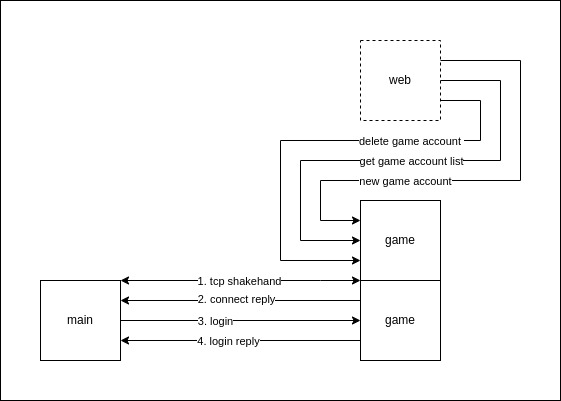
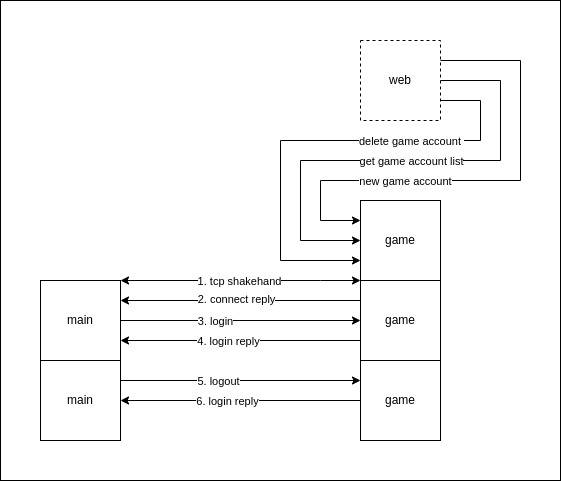
docs: update account

diff --git a/docs/account.md b/docs/account.md
@@ -111,9 +111,9 @@ pack(1)
 | ----- | ------- | ----------------------------------- |
 | 0     | 0xC1    | c1c2 frame flag                     |
 | 1     | 0x0F    | c1c2 frame size                     |
-| 2     | 0xF1    | c1c2 frame code 0xF406 BE high byte |
-| 3     | 0x00    | c1c2 frame code 0xF406 BE low byte  |
-| 4     | 0x01    | connect result                      |
+| 2     | 0xF1    | c1c2 frame code 0xF100 BE high byte |
+| 3     | 0x00    | c1c2 frame code 0xF100 BE low byte  |
+| 4     | 0x01    | connect result: 0=failed 1=success  |
 | 5     | 0x2E    | player index 0x2E7C BE high byte    |
 | 6     | 0x7C    | player index 0x2E7C BE low byte     |
 | 7~14  | byte[8] | client version                      |
@@ -129,9 +129,9 @@ pack(1)
 | ----- | ------- | ----------------------------------- |
 | 0     | 0xC1    | c1c2 frame flag                     |
 | 1     | 0x05    | c1c2 frame size                     |
-| 2     | 0xF1    | c1c2 frame code 0xF406 BE high byte |
-| 3     | 0x01    | c1c2 frame code 0xF406 BE low byte  |
-| 4     | 0x01    | login result is 0x04                |
+| 2     | 0xF1    | c1c2 frame code 0xF101 BE high byte |
+| 3     | 0x01    | c1c2 frame code 0xF101 BE low byte  |
+| 4     | 0x04    | login result is 0x04                |
 
 ### Login
 
@@ -148,8 +148,8 @@ pack(1)
 | ------- | --------- | ----------------------------------- |
 | 0       | 0xC1      | c1c2 frame flag                     |
 | 1       | 0xA2      | c1c2 frame size                     |
-| 2       | 0xF1      | c1c2 frame code 0xF406 BE high byte |
-| 3       | 0x01      | c1c2 frame code 0xF406 BE low byte  |
+| 2       | 0xF1      | c1c2 frame code 0xF101 BE high byte |
+| 3       | 0x01      | c1c2 frame code 0xF101 BE low byte  |
 | 4~13    | byte[10]  | account name with xor               |
 | 14~33   | byte[20]  | account password with xor           |
 | 34~133  | byte[100] | hardware id                         |
@@ -171,8 +171,8 @@ pack(1)
 | ----- | ------- | ----------------------------------- |
 | 0     | 0xC1    | c1c2 frame flag                     |
 | 1     | 0x05    | c1c2 frame size                     |
-| 2     | 0xF1    | c1c2 frame code 0xF406 BE high byte |
-| 3     | 0x01    | c1c2 frame code 0xF406 BE low byte  |
+| 2     | 0xF1    | c1c2 frame code 0xF101 BE high byte |
+| 3     | 0x01    | c1c2 frame code 0xF101 BE low byte  |
 | 4     | 0x01    | login result                        |
 
 ```
@@ -191,4 +191,53 @@ pack(1)
 13: 这个 IP 的储值点数不足
 17: 是 15 岁以上能够使用的服务器
 64: non-vip 未购买收费服务器入场券而无法进入
+```
+
+### Logout
+
+Player logout
+
+#### Request
+
+```
+pack(1)
+[C1 05 F1 02 02]
+```
+
+| Index | Element | Description                         |
+| ----- | ------- | ----------------------------------- |
+| 0     | 0xC1    | c1c2 frame flag                     |
+| 1     | 0x05    | c1c2 frame size                     |
+| 2     | 0xF1    | c1c2 frame code 0xF102 BE high byte |
+| 3     | 0x02    | c1c2 frame code 0xF102 BE low byte  |
+| 4     | 0x02    | flag                                |
+
+```
+flag:
+0=close game
+1=back to pick character
+2=back to pick server
+```
+
+#### Reply
+
+```
+pack(1)
+[C1 05 F1 02 02]
+need Encrypt
+```
+
+| Index | Element | Description                         |
+| ----- | ------- | ----------------------------------- |
+| 0     | 0xC1    | c1c2 frame flag                     |
+| 1     | 0x05    | c1c2 frame size                     |
+| 2     | 0xF1    | c1c2 frame code 0xF102 BE high byte |
+| 3     | 0x02    | c1c2 frame code 0xF102 BE low byte  |
+| 4     | 0x02    | flag                                |
+
+```
+flag:
+0=close game
+1=back to pick character
+2=back to pick server
 ```
